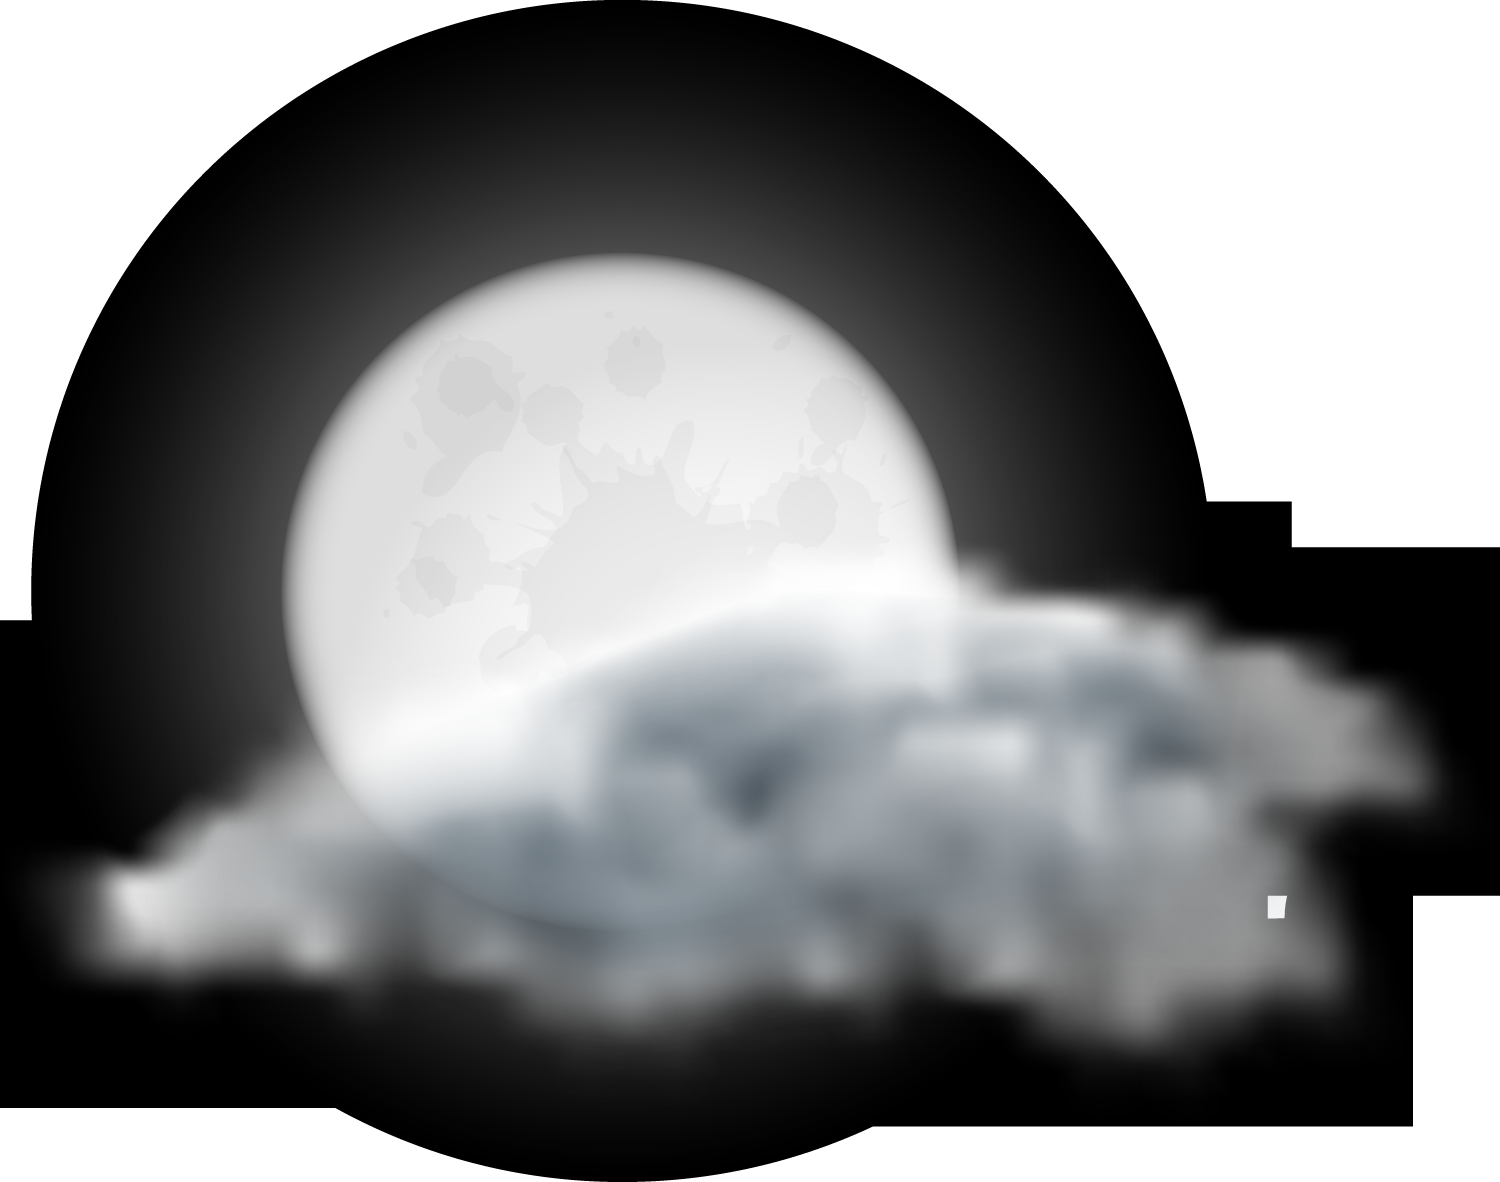
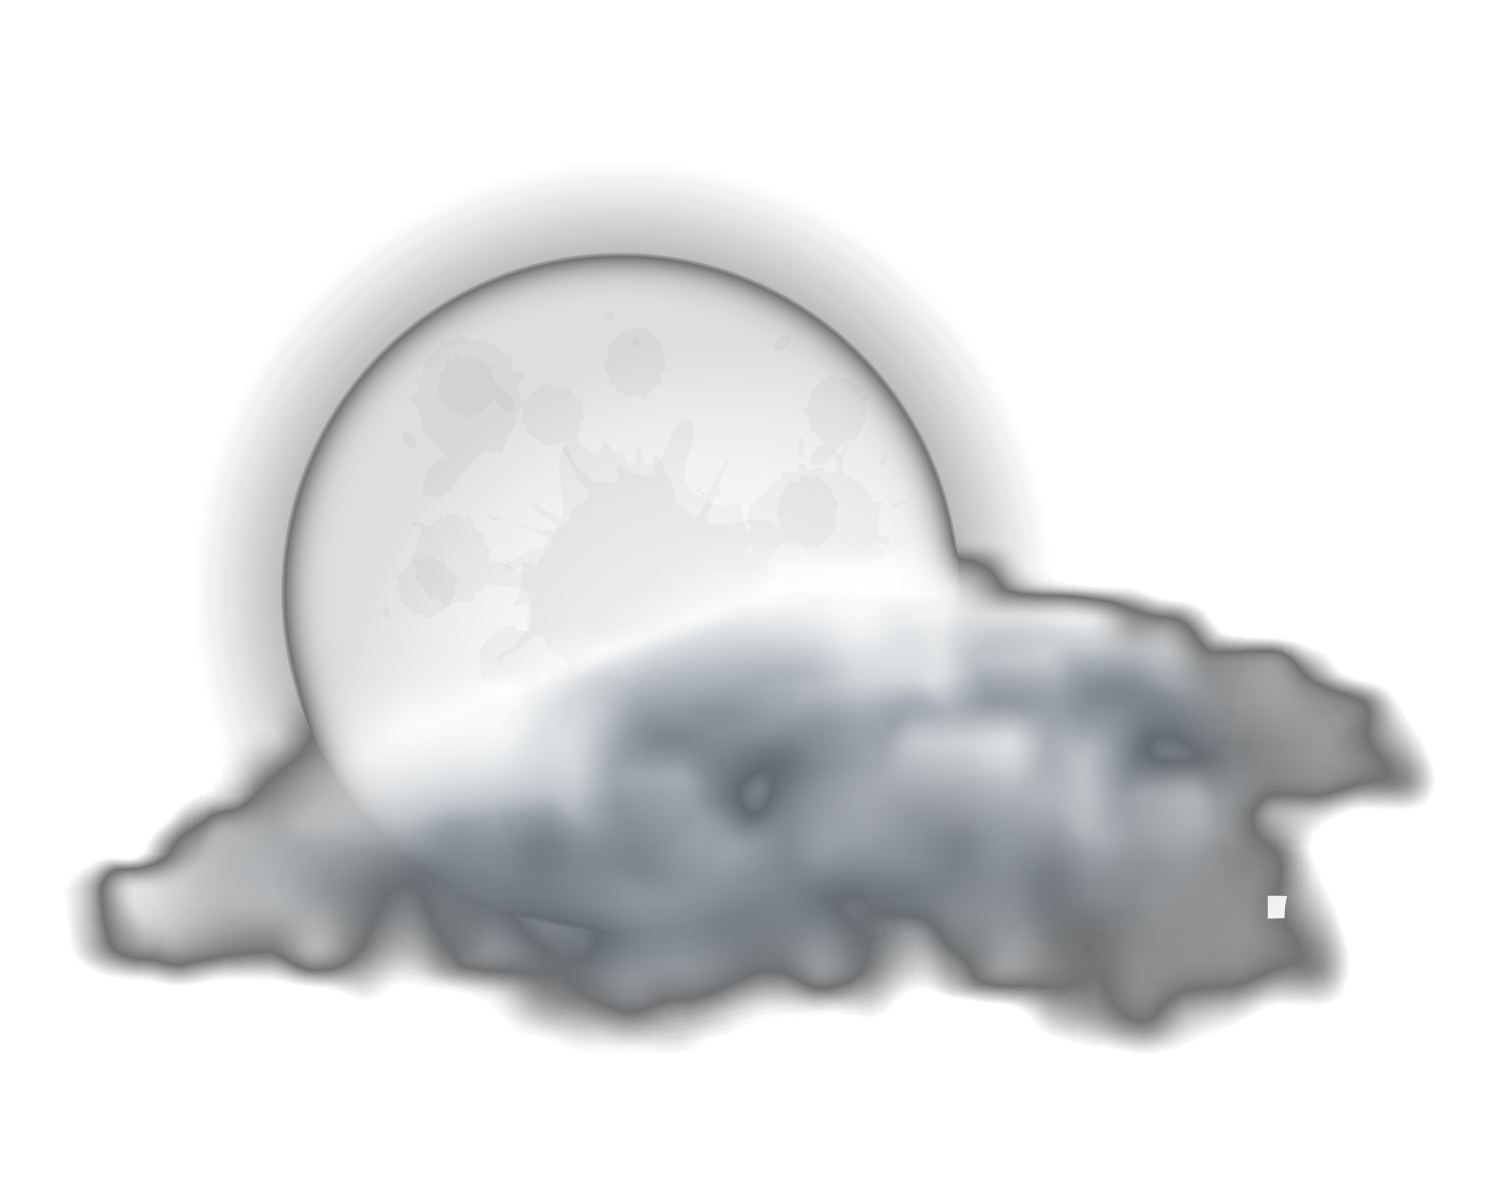
feat(clima): símbolo animado al frente, imágenes sin fondo negro y condición como newsticker lento

diff --git a/apps/output/src/templates/Clima.tsx b/apps/output/src/templates/Clima.tsx
@@ -70,11 +70,14 @@ export function Clima({ data, live, durationSec }: { data: ClimaData; live?: Cli
     return (
       <div style={{ position: "absolute", inset: 0 }}>
         <img src={fondo} alt="" style={{ position: "absolute", inset: 0, width: "100%", height: "100%", objectFit: "cover" }} />
-        <Chrome />
+        <Chrome hideLogo />
       </div>
     );
   }
 
+  const condText = city.desc.toUpperCase();
+  const unitPx = condText.length * 19 + 110; // ancho aproximado de una repetición (texto + separador)
+  const copies = Math.max(2, Math.ceil(1000 / unitPx)); // mitad del carrusel ≥ ancho de la franja (900px)
   const bigKey = climaSlotKey(city.code, city.isDay);
   const days = city.days.slice(0, 3);
 
@@ -82,7 +85,7 @@ export function Clima({ data, live, durationSec }: { data: ClimaData; live?: Cli
     <div className={"cw" + (play ? " play" : "") + (exiting ? " exit" : "")} style={{ position: "absolute", inset: 0 }}>
       <style>{CSS}</style>
       <img className="cw-bg" src={fondo} alt="" />
-      <Chrome hideTemp />
+      <Chrome hideTemp hideLogo />
 
       <img className="cw-big" src={resolveBig(bigKey, custom)} alt="" />
 
@@ -97,7 +100,14 @@ export function Clima({ data, live, durationSec }: { data: ClimaData; live?: Cli
         </div>
       </div>
 
-      <div className="cw-cond cw-flip"><span>{city.desc.toUpperCase()}</span></div>
+      {/* Condición como newsticker lento: se repite el texto lo justo para cubrir el ancho y se desplaza a ~40 px/s. */}
+      <div className="cw-cond cw-flip">
+        <div className="cw-cond-in">
+          <div className="cw-cond-track" style={{ animationDuration: `${(copies * unitPx) / 40}s` }}>
+            {Array.from({ length: copies * 2 }).map((_, i) => <span key={i}>{condText}<i aria-hidden="true">•</i></span>)}
+          </div>
+        </div>
+      </div>
       <div className="cw-note cw-flip">Pronóstico actualizado en vivo.</div>
       <div className="cw-pill cw-flip">EL CLIMA</div>
 
@@ -120,7 +130,8 @@ const CSS = `
 .cw{font-family:Inter,system-ui,sans-serif}
 .cw-bg{position:absolute;inset:0;width:100%;height:100%;object-fit:cover}
 
-.cw-big{position:absolute;left:-40px;top:20px;width:940px;z-index:6;
+/* El símbolo animado va por DELANTE de las tarjetas (z-index mayor que el de las cards, 14). */
+.cw-big{position:absolute;left:-40px;top:20px;width:940px;z-index:20;pointer-events:none;
   opacity:0;filter:drop-shadow(0 20px 40px rgba(0,0,0,.35))}
 .cw.play .cw-big{animation:cw-float-in 1s cubic-bezier(.2,.8,.2,1) .1s forwards, cw-float 4s ease-in-out 1.1s infinite}
 @keyframes cw-float-in{from{opacity:0}to{opacity:1}}
@@ -147,8 +158,13 @@ const CSS = `
 .cw-chip b{color:#2f80ed}
 
 .cw-cond{position:absolute;left:940px;top:566px;width:900px;height:60px;z-index:14;background:#0b1f52;
-  border-radius:12px;display:flex;align-items:center;justify-content:center}
-.cw-cond span{color:#fff;font-weight:800;font-size:28px;letter-spacing:.04em}
+  border-radius:12px;display:flex;align-items:center;overflow:hidden}
+.cw-cond-in{width:100%;overflow:hidden;
+  -webkit-mask-image:linear-gradient(90deg,transparent,#000 6%,#000 94%,transparent);mask-image:linear-gradient(90deg,transparent,#000 6%,#000 94%,transparent)}
+.cw-cond-track{display:flex;white-space:nowrap;will-change:transform;animation:cw-cond-scroll linear infinite}
+.cw-cond-track span{color:#fff;font-weight:800;font-size:28px;letter-spacing:.04em;padding:0 22px;display:inline-flex;align-items:center;gap:44px}
+.cw-cond-track i{font-style:normal;color:#5aa2f2}
+@keyframes cw-cond-scroll{from{transform:translateX(0)}to{transform:translateX(-50%)}}
 
 .cw-note{position:absolute;left:60px;top:648px;width:330px;height:196px;z-index:14;background:#fff;
   border-radius:24px;box-sizing:border-box;padding:26px;display:flex;align-items:center;justify-content:center;
